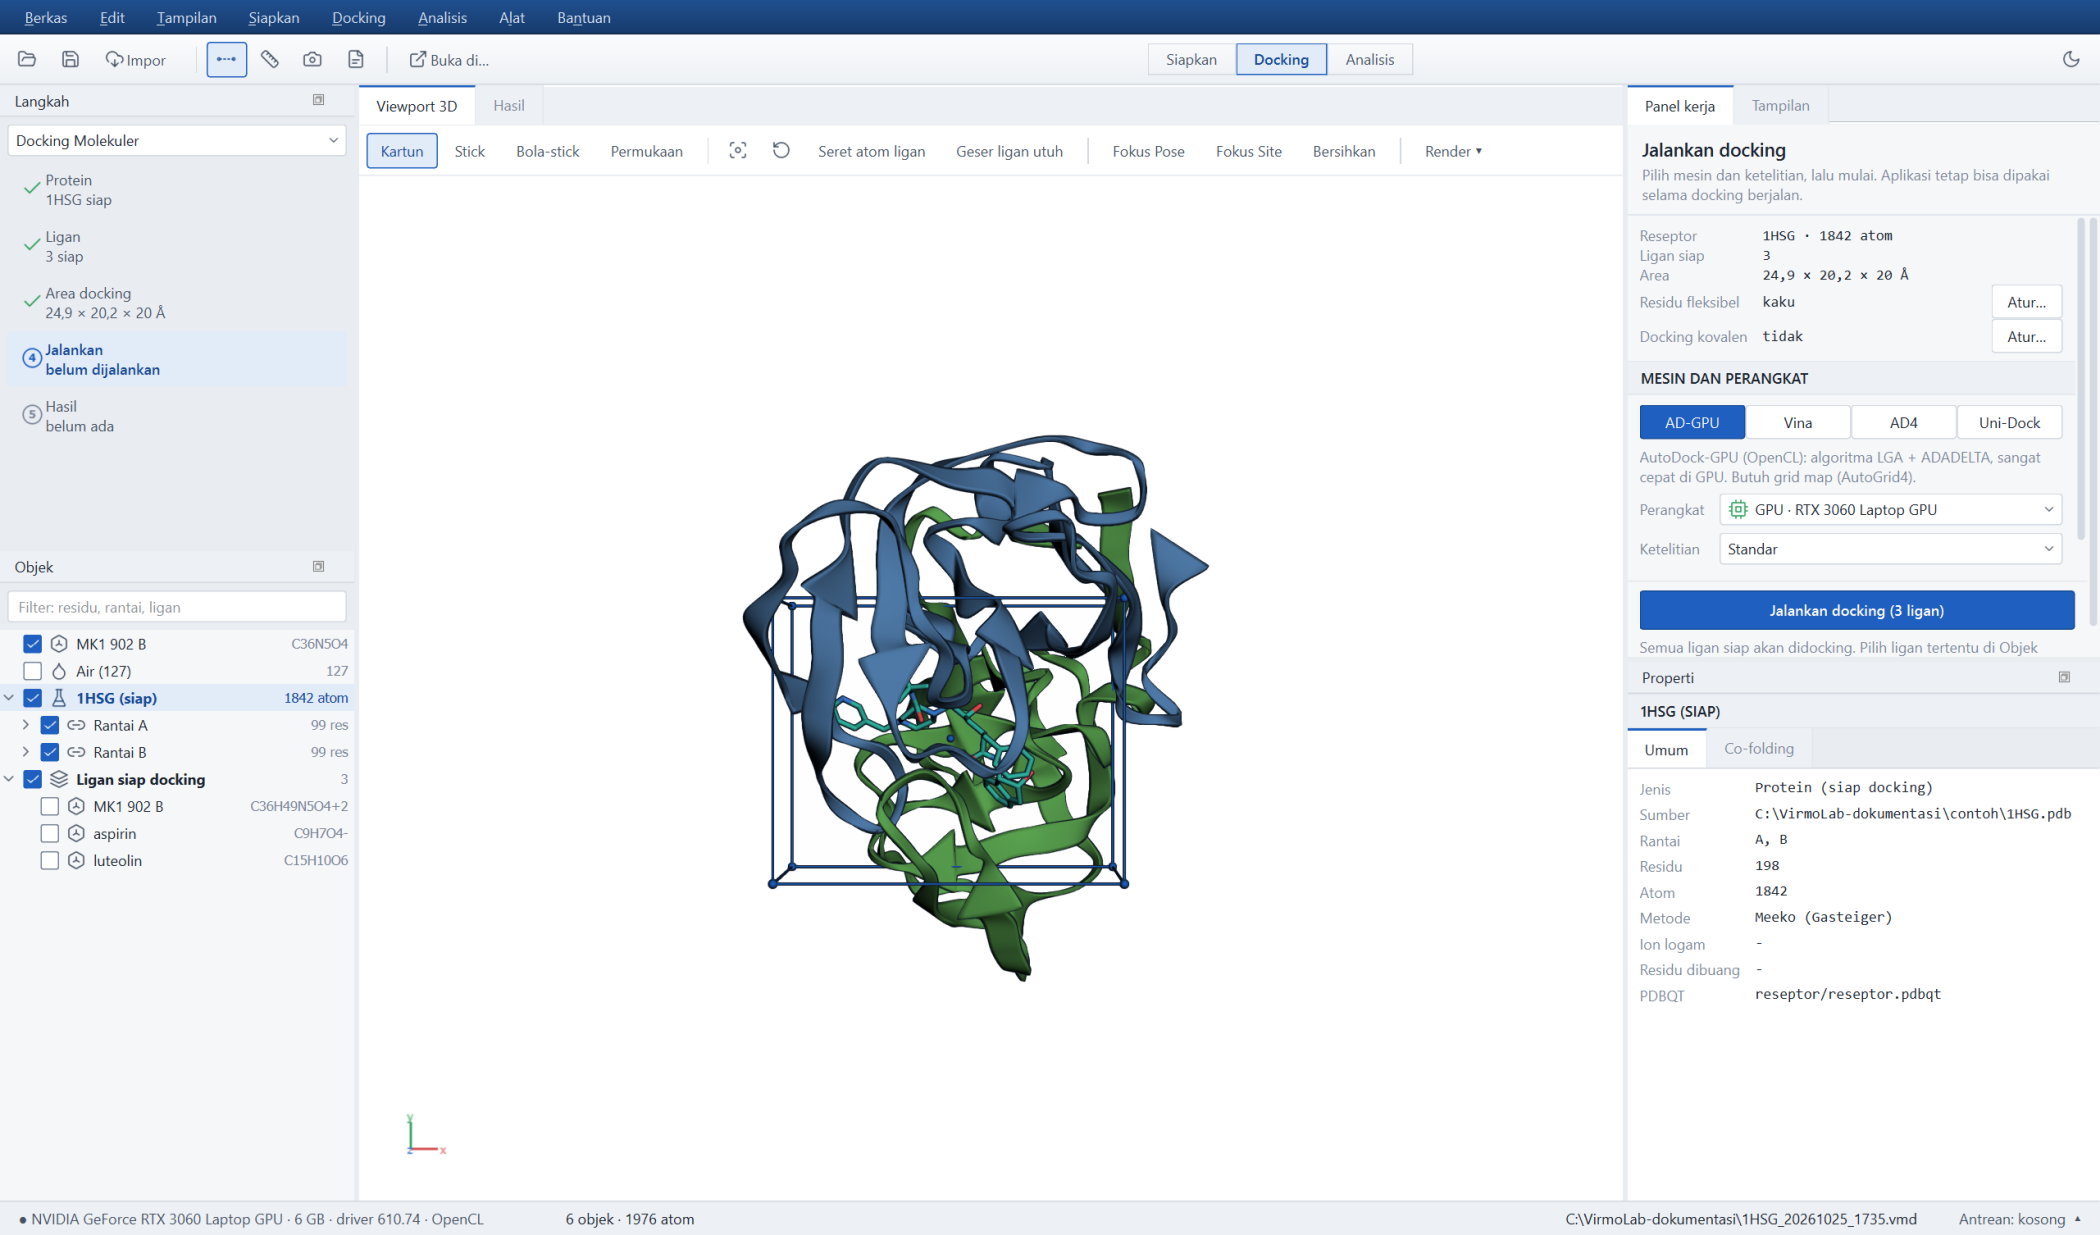
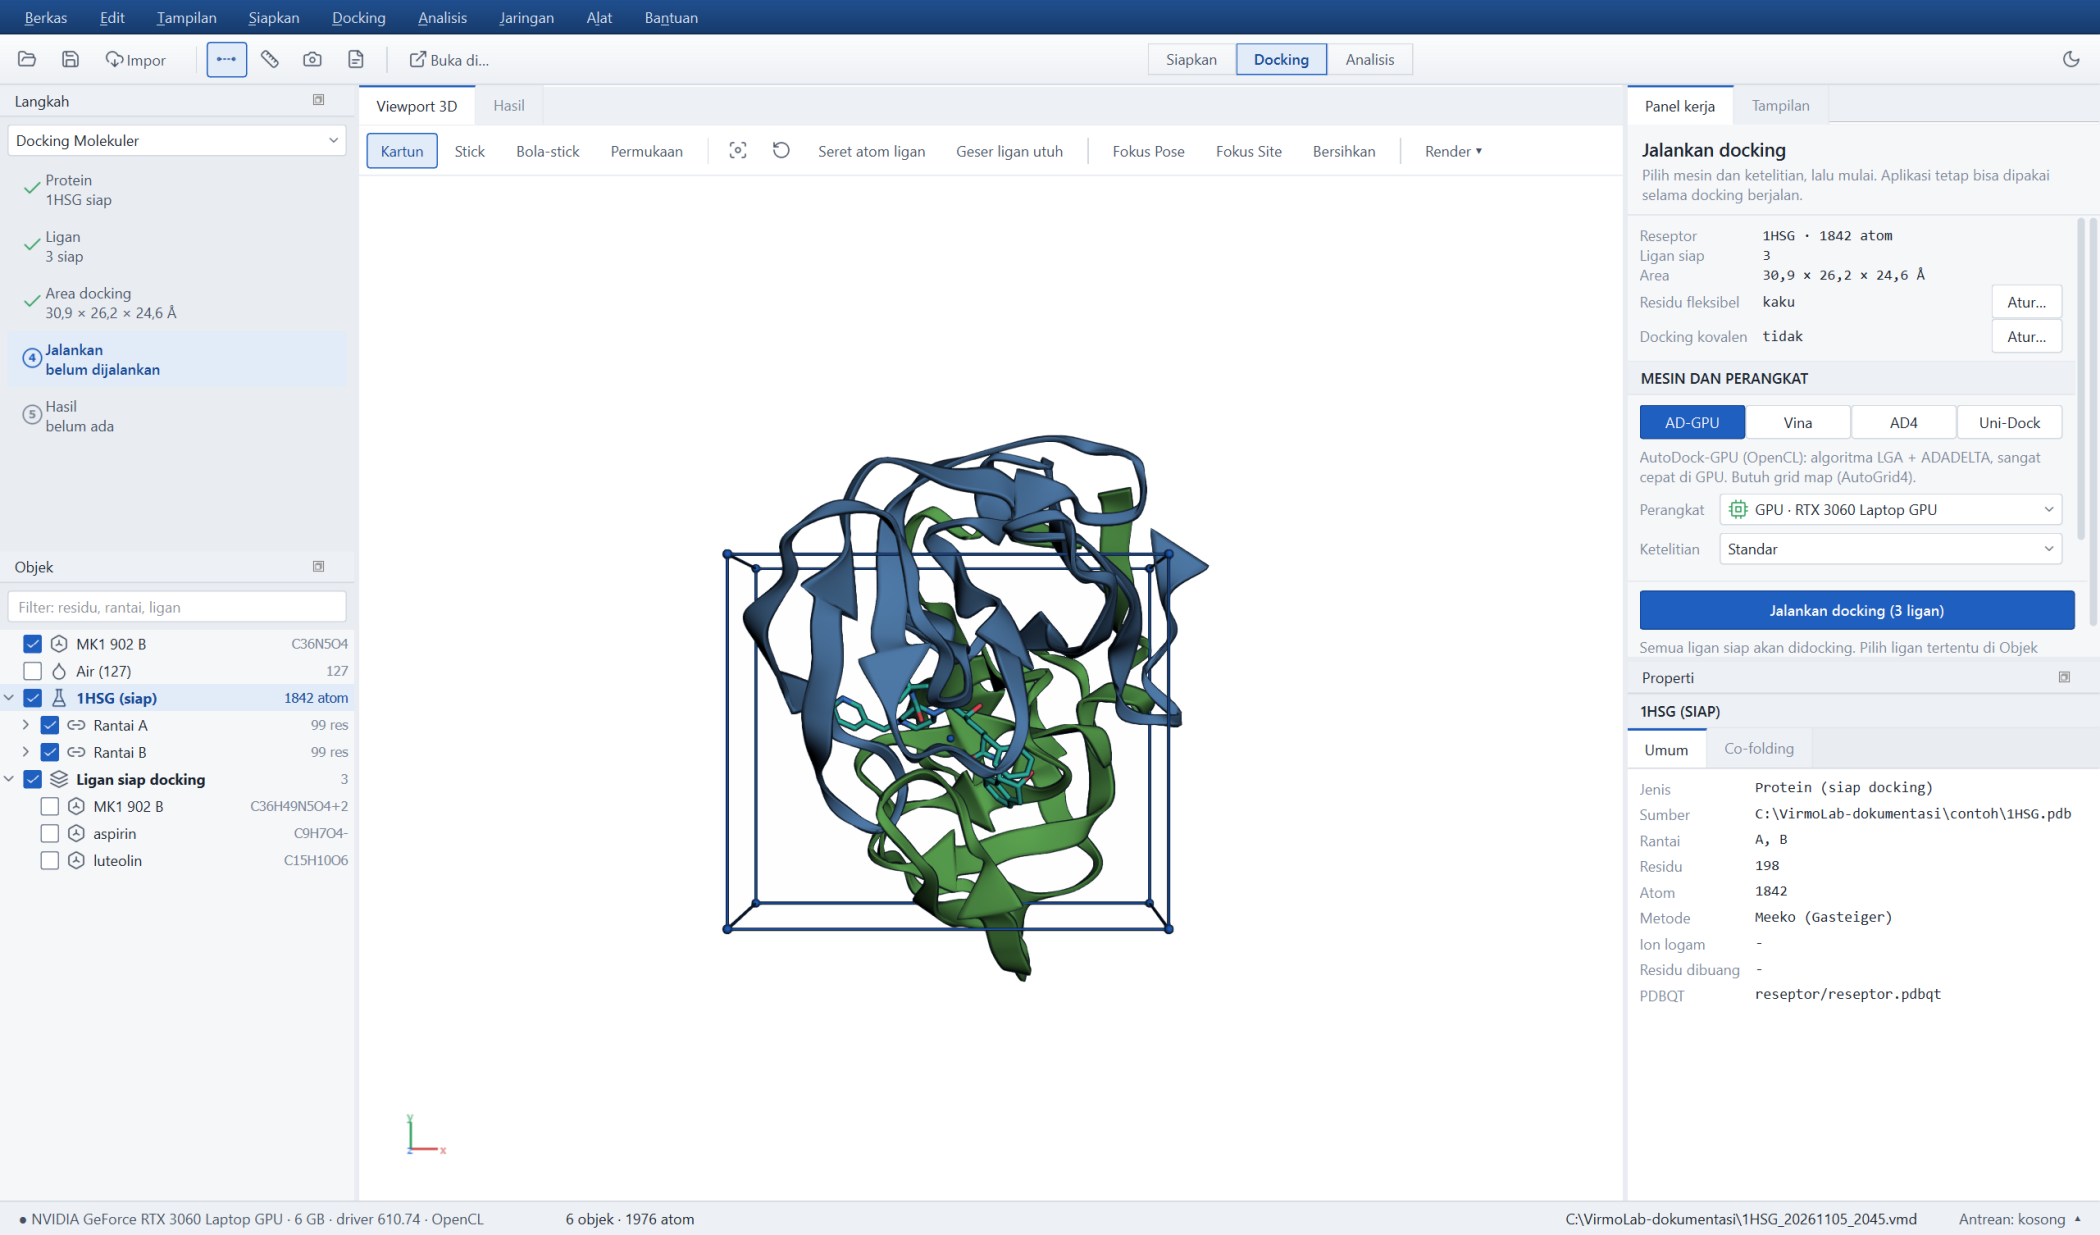
docs(gambar): buat ulang tangkapan layar dokumentasi untuk 1.9.1
Tangkapan di docs/gambar/ masih dari 25 Oktober, dibuat untuk 1.7.0.
Keduanya ikut dibundel ke installer dan dipakai di README publik, dan
core/laporan.py mencetak nomor versi di kepala laporan - sehingga
t04_laporan.png di dalam tutorial PDF memperlihatkan versi lama. Installer
1.9.0 yang sudah terbit pun membawa gambar bertuliskan 1.7.0.

Dibuat ulang dengan dev/buat_screenshot.py, buat_screenshot_tutorial.py,
dan buat_screenshot_laporan.py; 19 gambar berubah. Lalu dev/buat_docs.py
dan dev/buat_tutorial_pdf.py dijalankan agar halaman HTML dan tutorial PDF
memakai gambar baru dan menyebut versi 1.9.1.

Diperiksa mata, bukan sekadar dianggap selesai:
- t04_laporan.png: kepala laporan kini "VirmoLab 1.9.1".
- 08_hasil.png (gambar utama README): bilah status memakai jalur
  C:\VirmoLab-dokumentasi, tanpa jejak folder pengembangan; menu Jaringan
  dari 1.9.0 sudah ada.
- 15_gelap.png: tema gelap merender 3D dengan benar, bukan viewport kosong.
- Sampul tutorial PDF: "VirmoLab 1.9.1 - 5 November 2026".

Changed region(s): [[0.3405, 0.4308, 0.5571, 0.7692], [0.2476, 0.0, 0.3405, 0.0308], [0.8667, 0.9846, 0.8976, 1.0]]

diff --git a/docs/troubleshooting.html b/docs/troubleshooting.html
@@ -1,4 +1,4 @@
-<!doctype html><html lang="id"><head><meta charset="utf-8"><meta name="viewport" content="width=device-width,initial-scale=1"><title>Mengatasi masalah · VirmoLab</title><link rel="stylesheet" href="gaya.css"><link rel="icon" href="gambar/ikon.png"></head><body><header><img src="gambar/logo_putih.svg" alt="VirmoLab" style="height:30px;margin-right:6px"><span style="color:#9fb4d3;font-size:13px;margin-right:10px">1.9.0</span><a href="panduan.html">Panduan pengguna</a><a href="instalasi.html">Instalasi</a><a href="pindah_laptop.html">Pindah laptop</a><a href="gpu.html">Setup GPU</a><a href="troubleshooting.html" class="aktif">Mengatasi masalah</a><a href="metode.html">Metode &amp; kriteria</a><a href="validasi.html">Validasi</a></header><main><h1>Mengatasi masalah</h1>
+<!doctype html><html lang="id"><head><meta charset="utf-8"><meta name="viewport" content="width=device-width,initial-scale=1"><title>Mengatasi masalah · VirmoLab</title><link rel="stylesheet" href="gaya.css"><link rel="icon" href="gambar/ikon.png"></head><body><header><img src="gambar/logo_putih.svg" alt="VirmoLab" style="height:30px;margin-right:6px"><span style="color:#9fb4d3;font-size:13px;margin-right:10px">1.9.1</span><a href="panduan.html">Panduan pengguna</a><a href="instalasi.html">Instalasi</a><a href="pindah_laptop.html">Pindah laptop</a><a href="gpu.html">Setup GPU</a><a href="troubleshooting.html" class="aktif">Mengatasi masalah</a><a href="metode.html">Metode &amp; kriteria</a><a href="validasi.html">Validasi</a></header><main><h1>Mengatasi masalah</h1>
 <p class="lead">Masalah umum dan cara mengatasinya. Galat juga selalu dijelaskan di panel <b>Pesan</b> beserta langkah yang disarankan.</p>
 
 <div class="catatan"><b>Langkah pertama:</b> jalankan <b>Alat › Uji mandiri komponen…</b>. VirmoLab memeriksa semua mesin docking, Open Babel, RDKit/Meeko, docking Vina kecil, deteksi GPU, sifat ligan, statistik, PoseBusters, ekspor Excel, tema antarmuka, skrip alat WSL, dan alur farmakologi jaringan (64 butir), lalu menampilkan mana yang gagal. Dari baris perintah: <code>VirmoLab.exe --uji-mandiri hasil.json</code>.</div>
@@ -29,4 +29,4 @@
 <h2>Melapor masalah</h2>
 <p><b>Bantuan › Lapor masalah atau kirim saran…</b> menyusun teks berisi uraian Anda, info sistem, dan log terakhir. Periksa isinya, klik <b>Salin</b>, lalu kirim lewat email atau halaman Issues proyek. VirmoLab tidak mengirim apa pun secara otomatis. Folder log: <b>Bantuan › Buka folder log</b>.</p>
 <figure><img src="gambar/14_lapor.png" alt="Lapor masalah" style="max-width:720px"></figure>
-<footer>VirmoLab 1.9.0 · dokumentasi offline · GPL-3.0-or-later</footer></main></body></html>
+<footer>VirmoLab 1.9.1 · dokumentasi offline · GPL-3.0-or-later</footer></main></body></html>

diff --git a/docs/validasi.html b/docs/validasi.html
@@ -1,4 +1,4 @@
-<!doctype html><html lang="id"><head><meta charset="utf-8"><meta name="viewport" content="width=device-width,initial-scale=1"><title>Validasi · VirmoLab</title><link rel="stylesheet" href="gaya.css"><link rel="icon" href="gambar/ikon.png"></head><body><header><img src="gambar/logo_putih.svg" alt="VirmoLab" style="height:30px;margin-right:6px"><span style="color:#9fb4d3;font-size:13px;margin-right:10px">1.9.0</span><a href="panduan.html">Panduan pengguna</a><a href="instalasi.html">Instalasi</a><a href="pindah_laptop.html">Pindah laptop</a><a href="gpu.html">Setup GPU</a><a href="troubleshooting.html">Mengatasi masalah</a><a href="metode.html">Metode &amp; kriteria</a><a href="validasi.html" class="aktif">Validasi</a></header><main><h1>Validasi: angka yang bisa Anda periksa</h1>
+<!doctype html><html lang="id"><head><meta charset="utf-8"><meta name="viewport" content="width=device-width,initial-scale=1"><title>Validasi · VirmoLab</title><link rel="stylesheet" href="gaya.css"><link rel="icon" href="gambar/ikon.png"></head><body><header><img src="gambar/logo_putih.svg" alt="VirmoLab" style="height:30px;margin-right:6px"><span style="color:#9fb4d3;font-size:13px;margin-right:10px">1.9.1</span><a href="panduan.html">Panduan pengguna</a><a href="instalasi.html">Instalasi</a><a href="pindah_laptop.html">Pindah laptop</a><a href="gpu.html">Setup GPU</a><a href="troubleshooting.html">Mengatasi masalah</a><a href="metode.html">Metode &amp; kriteria</a><a href="validasi.html" class="aktif">Validasi</a></header><main><h1>Validasi: angka yang bisa Anda periksa</h1>
 <p class="lead">Halaman ini memuat hasil pengukuran VirmoLab pada kumpulan data acuan yang terbuka, beserta cara
 menjalankannya kembali. Semua angka di sini berasal dari perhitungan nyata di komputer pengembang (RTX 3060 Laptop,
 Ryzen 7 6800H), bukan dari makalah orang lain, dan skrip yang menghasilkannya ikut dalam kode sumber.</p>
@@ -120,4 +120,4 @@ dan GPU yang berbeda dapat menggeser angkanya.</li>
 <li>Kumpulan data acuan berisi kompleks kristal berkualitas tinggi. Target tanpa struktur kristal, model AlphaFold,
 atau kantong yang baru terbentuk saat ligan terikat jauh lebih sulit daripada angka di atas.</li>
 </ul>
-<footer>VirmoLab 1.9.0 · dokumentasi offline · GPL-3.0-or-later</footer></main></body></html>
+<footer>VirmoLab 1.9.1 · dokumentasi offline · GPL-3.0-or-later</footer></main></body></html>

diff --git a/docs/instalasi.html b/docs/instalasi.html
@@ -1,4 +1,4 @@
-<!doctype html><html lang="id"><head><meta charset="utf-8"><meta name="viewport" content="width=device-width,initial-scale=1"><title>Instalasi · VirmoLab</title><link rel="stylesheet" href="gaya.css"><link rel="icon" href="gambar/ikon.png"></head><body><header><img src="gambar/logo_putih.svg" alt="VirmoLab" style="height:30px;margin-right:6px"><span style="color:#9fb4d3;font-size:13px;margin-right:10px">1.9.0</span><a href="panduan.html">Panduan pengguna</a><a href="instalasi.html" class="aktif">Instalasi</a><a href="pindah_laptop.html">Pindah laptop</a><a href="gpu.html">Setup GPU</a><a href="troubleshooting.html">Mengatasi masalah</a><a href="metode.html">Metode &amp; kriteria</a><a href="validasi.html">Validasi</a></header><main><h1>Instalasi</h1>
+<!doctype html><html lang="id"><head><meta charset="utf-8"><meta name="viewport" content="width=device-width,initial-scale=1"><title>Instalasi · VirmoLab</title><link rel="stylesheet" href="gaya.css"><link rel="icon" href="gambar/ikon.png"></head><body><header><img src="gambar/logo_putih.svg" alt="VirmoLab" style="height:30px;margin-right:6px"><span style="color:#9fb4d3;font-size:13px;margin-right:10px">1.9.1</span><a href="panduan.html">Panduan pengguna</a><a href="instalasi.html" class="aktif">Instalasi</a><a href="pindah_laptop.html">Pindah laptop</a><a href="gpu.html">Setup GPU</a><a href="troubleshooting.html">Mengatasi masalah</a><a href="metode.html">Metode &amp; kriteria</a><a href="validasi.html">Validasi</a></header><main><h1>Instalasi</h1>
 <p class="lead">VirmoLab berjalan di Windows 10/11 64-bit tanpa perlu Python, WSL, MGLTools, atau program lain. Mesin docking Vina dan AutoDock-GPU sudah disertakan. Alat lanjutan yang hanya ada untuk Linux (Uni-Dock, OpenFE, GNINA, Boltz-2) bersifat opsional dan dipasang dari dalam aplikasi; lihat <a href="#alat-lanjutan">Alat lanjutan</a>.</p>
 
 <h2>Kebutuhan minimum</h2>
@@ -91,4 +91,4 @@ ke atas).</p>
 <tr><td>Log (untuk lapor masalah)</td><td><code>%LOCALAPPDATA%\VirmoLab\log</code></td><td><code>data\log</code></td></tr>
 <tr><td>Proyek</td><td><code>Documents\VirmoLab</code> (bisa diubah)</td><td><code>Proyek\</code></td></tr>
 </table>
-<footer>VirmoLab 1.9.0 · dokumentasi offline · GPL-3.0-or-later</footer></main></body></html>
+<footer>VirmoLab 1.9.1 · dokumentasi offline · GPL-3.0-or-later</footer></main></body></html>

diff --git a/docs/panduan.html b/docs/panduan.html
@@ -1,4 +1,4 @@
-<!doctype html><html lang="id"><head><meta charset="utf-8"><meta name="viewport" content="width=device-width,initial-scale=1"><title>Panduan pengguna · VirmoLab</title><link rel="stylesheet" href="gaya.css"><link rel="icon" href="gambar/ikon.png"></head><body><header><img src="gambar/logo_putih.svg" alt="VirmoLab" style="height:30px;margin-right:6px"><span style="color:#9fb4d3;font-size:13px;margin-right:10px">1.9.0</span><a href="panduan.html" class="aktif">Panduan pengguna</a><a href="instalasi.html">Instalasi</a><a href="pindah_laptop.html">Pindah laptop</a><a href="gpu.html">Setup GPU</a><a href="troubleshooting.html">Mengatasi masalah</a><a href="metode.html">Metode &amp; kriteria</a><a href="validasi.html">Validasi</a></header><main><h1>Panduan pengguna</h1>
+<!doctype html><html lang="id"><head><meta charset="utf-8"><meta name="viewport" content="width=device-width,initial-scale=1"><title>Panduan pengguna · VirmoLab</title><link rel="stylesheet" href="gaya.css"><link rel="icon" href="gambar/ikon.png"></head><body><header><img src="gambar/logo_putih.svg" alt="VirmoLab" style="height:30px;margin-right:6px"><span style="color:#9fb4d3;font-size:13px;margin-right:10px">1.9.1</span><a href="panduan.html" class="aktif">Panduan pengguna</a><a href="instalasi.html">Instalasi</a><a href="pindah_laptop.html">Pindah laptop</a><a href="gpu.html">Setup GPU</a><a href="troubleshooting.html">Mengatasi masalah</a><a href="metode.html">Metode &amp; kriteria</a><a href="validasi.html">Validasi</a></header><main><h1>Panduan pengguna</h1>
 <p class="lead">Alur lengkap docking di VirmoLab, dari mengimpor protein sampai laporan (PDF, Word, atau HTML interaktif) — semuanya di dalam satu aplikasi, dipandu lima langkah.</p>
 
 <nav class="isi"><b>Isi:</b>
@@ -564,4 +564,4 @@ VirmoLab-cli info</pre>
 <tr><td><kbd>Ctrl</kbd>+<kbd>Shift</kbd>+<kbd>F</kbd></td><td>Komposer figur</td><td></td><td></td></tr>
 </table>
 <div class="peringatan">Hasil docking adalah prediksi komputasi, bukan bukti aktivitas biologis; konfirmasi dengan uji eksperimen. Ki dihitung dari ΔG sebagai perkiraan.</div>
-<footer>VirmoLab 1.9.0 · dokumentasi offline · GPL-3.0-or-later</footer></main></body></html>
+<footer>VirmoLab 1.9.1 · dokumentasi offline · GPL-3.0-or-later</footer></main></body></html>

diff --git a/docs/pindah_laptop.html b/docs/pindah_laptop.html
@@ -1,4 +1,4 @@
-<!doctype html><html lang="id"><head><meta charset="utf-8"><meta name="viewport" content="width=device-width,initial-scale=1"><title>Pindah laptop · VirmoLab</title><link rel="stylesheet" href="gaya.css"><link rel="icon" href="gambar/ikon.png"></head><body><header><img src="gambar/logo_putih.svg" alt="VirmoLab" style="height:30px;margin-right:6px"><span style="color:#9fb4d3;font-size:13px;margin-right:10px">1.9.0</span><a href="panduan.html">Panduan pengguna</a><a href="instalasi.html">Instalasi</a><a href="pindah_laptop.html" class="aktif">Pindah laptop</a><a href="gpu.html">Setup GPU</a><a href="troubleshooting.html">Mengatasi masalah</a><a href="metode.html">Metode &amp; kriteria</a><a href="validasi.html">Validasi</a></header><main><h1>Pindah laptop</h1>
+<!doctype html><html lang="id"><head><meta charset="utf-8"><meta name="viewport" content="width=device-width,initial-scale=1"><title>Pindah laptop · VirmoLab</title><link rel="stylesheet" href="gaya.css"><link rel="icon" href="gambar/ikon.png"></head><body><header><img src="gambar/logo_putih.svg" alt="VirmoLab" style="height:30px;margin-right:6px"><span style="color:#9fb4d3;font-size:13px;margin-right:10px">1.9.1</span><a href="panduan.html">Panduan pengguna</a><a href="instalasi.html">Instalasi</a><a href="pindah_laptop.html" class="aktif">Pindah laptop</a><a href="gpu.html">Setup GPU</a><a href="troubleshooting.html">Mengatasi masalah</a><a href="metode.html">Metode &amp; kriteria</a><a href="validasi.html">Validasi</a></header><main><h1>Pindah laptop</h1>
 <p class="lead">Bawa pengaturan, preset parameter, tata letak, dan proyek ke laptop lain dalam satu berkas.</p>
 
 <h2>Di laptop lama</h2>
@@ -23,4 +23,4 @@
 <li><b>Versi portable</b>: salin seluruh folder portable (termasuk <code>data\</code> dan <code>Proyek\</code>) — pengaturan ikut terbawa.</li>
 <li><b>Satu proyek saja</b>: salin folder <code>Nama.vmd</code> lalu <b>Berkas › Buka proyek…</b> di laptop baru. Job yang belum selesai muncul sebagai <i>Dijeda</i> dan bisa dilanjutkan.</li>
 </ul>
-<footer>VirmoLab 1.9.0 · dokumentasi offline · GPL-3.0-or-later</footer></main></body></html>
+<footer>VirmoLab 1.9.1 · dokumentasi offline · GPL-3.0-or-later</footer></main></body></html>

diff --git a/docs/gpu.html b/docs/gpu.html
@@ -1,4 +1,4 @@
-<!doctype html><html lang="id"><head><meta charset="utf-8"><meta name="viewport" content="width=device-width,initial-scale=1"><title>Setup GPU · VirmoLab</title><link rel="stylesheet" href="gaya.css"><link rel="icon" href="gambar/ikon.png"></head><body><header><img src="gambar/logo_putih.svg" alt="VirmoLab" style="height:30px;margin-right:6px"><span style="color:#9fb4d3;font-size:13px;margin-right:10px">1.9.0</span><a href="panduan.html">Panduan pengguna</a><a href="instalasi.html">Instalasi</a><a href="pindah_laptop.html">Pindah laptop</a><a href="gpu.html" class="aktif">Setup GPU</a><a href="troubleshooting.html">Mengatasi masalah</a><a href="metode.html">Metode &amp; kriteria</a><a href="validasi.html">Validasi</a></header><main><h1>Setup GPU</h1>
+<!doctype html><html lang="id"><head><meta charset="utf-8"><meta name="viewport" content="width=device-width,initial-scale=1"><title>Setup GPU · VirmoLab</title><link rel="stylesheet" href="gaya.css"><link rel="icon" href="gambar/ikon.png"></head><body><header><img src="gambar/logo_putih.svg" alt="VirmoLab" style="height:30px;margin-right:6px"><span style="color:#9fb4d3;font-size:13px;margin-right:10px">1.9.1</span><a href="panduan.html">Panduan pengguna</a><a href="instalasi.html">Instalasi</a><a href="pindah_laptop.html">Pindah laptop</a><a href="gpu.html" class="aktif">Setup GPU</a><a href="troubleshooting.html">Mengatasi masalah</a><a href="metode.html">Metode &amp; kriteria</a><a href="validasi.html">Validasi</a></header><main><h1>Setup GPU</h1>
 <p class="lead">AutoDock-GPU di VirmoLab memakai OpenCL, jadi berjalan di GPU NVIDIA, AMD, maupun Intel tanpa CUDA atau WSL. Tanpa GPU, VirmoLab tetap bekerja penuh dengan AutoDock Vina di CPU.</p>
 
 <h2>Membaca status bar</h2>
@@ -33,4 +33,4 @@
 <tr><td>AutoDock Vina, Ryzen 7 5800H 16 thread, exhaustiveness 8</td><td>± 50 detik</td></tr>
 </table>
 <p>Ligan dengan &gt; 32 torsi atau &gt; 256 atom tidak didukung AutoDock-GPU dan otomatis dilewati dengan alasan; jalankan ligan itu dengan Vina.</p>
-<footer>VirmoLab 1.9.0 · dokumentasi offline · GPL-3.0-or-later</footer></main></body></html>
+<footer>VirmoLab 1.9.1 · dokumentasi offline · GPL-3.0-or-later</footer></main></body></html>

diff --git a/docs/metode.html b/docs/metode.html
@@ -1,4 +1,4 @@
-<!doctype html><html lang="id"><head><meta charset="utf-8"><meta name="viewport" content="width=device-width,initial-scale=1"><title>Metode &amp; kriteria · VirmoLab</title><link rel="stylesheet" href="gaya.css"><link rel="icon" href="gambar/ikon.png"></head><body><header><img src="gambar/logo_putih.svg" alt="VirmoLab" style="height:30px;margin-right:6px"><span style="color:#9fb4d3;font-size:13px;margin-right:10px">1.9.0</span><a href="panduan.html">Panduan pengguna</a><a href="instalasi.html">Instalasi</a><a href="pindah_laptop.html">Pindah laptop</a><a href="gpu.html">Setup GPU</a><a href="troubleshooting.html">Mengatasi masalah</a><a href="metode.html" class="aktif">Metode &amp; kriteria</a><a href="validasi.html">Validasi</a></header><main><h1>Metode &amp; kriteria</h1>
+<!doctype html><html lang="id"><head><meta charset="utf-8"><meta name="viewport" content="width=device-width,initial-scale=1"><title>Metode &amp; kriteria · VirmoLab</title><link rel="stylesheet" href="gaya.css"><link rel="icon" href="gambar/ikon.png"></head><body><header><img src="gambar/logo_putih.svg" alt="VirmoLab" style="height:30px;margin-right:6px"><span style="color:#9fb4d3;font-size:13px;margin-right:10px">1.9.1</span><a href="panduan.html">Panduan pengguna</a><a href="instalasi.html">Instalasi</a><a href="pindah_laptop.html">Pindah laptop</a><a href="gpu.html">Setup GPU</a><a href="troubleshooting.html">Mengatasi masalah</a><a href="metode.html" class="aktif">Metode &amp; kriteria</a><a href="validasi.html">Validasi</a></header><main><h1>Metode &amp; kriteria</h1>
 <p class="lead">Rincian ilmiah yang dipakai VirmoLab, untuk ditulis di bagian Metode naskah.</p>
 
 <h2>Preparasi</h2>
@@ -214,4 +214,4 @@
 </ol>
 <p>Laporan PDF VirmoLab mencantumkan sitasi sesuai mesin yang benar-benar dipakai.</p>
 <div class="peringatan">Hasil docking adalah prediksi komputasi, bukan bukti aktivitas biologis; konfirmasi dengan uji eksperimen.</div>
-<footer>VirmoLab 1.9.0 · dokumentasi offline · GPL-3.0-or-later</footer></main></body></html>
+<footer>VirmoLab 1.9.1 · dokumentasi offline · GPL-3.0-or-later</footer></main></body></html>
